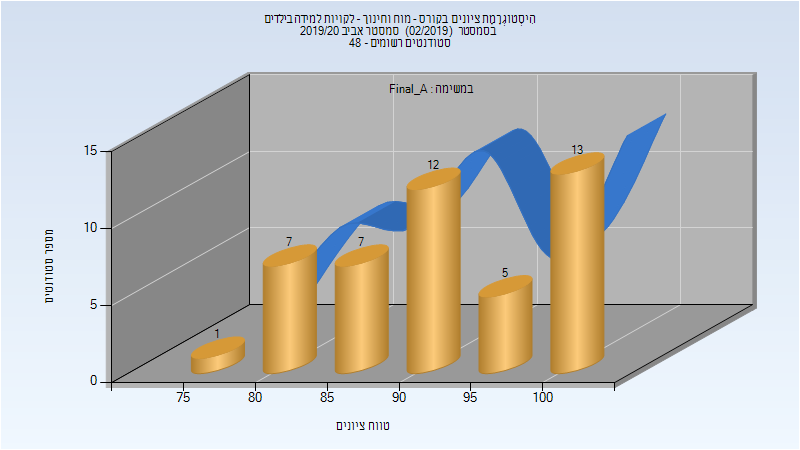
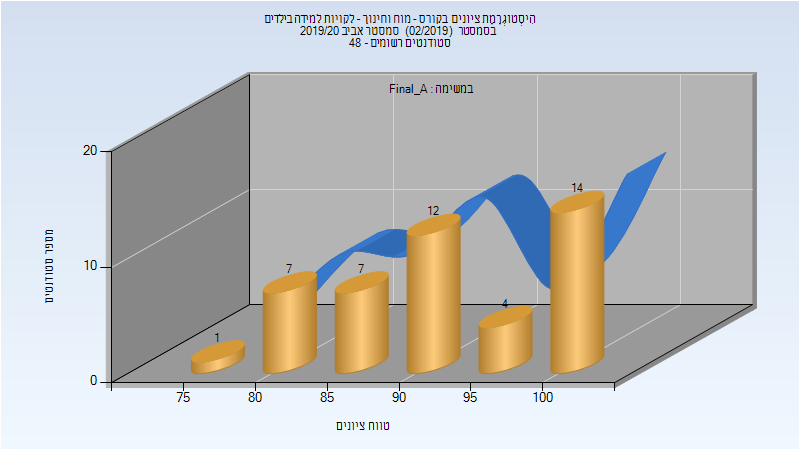
Deploy michael-maltsev/technion-histograms to github.com/michael-maltsev/technion-histograms.git:gh-pages

diff --git a/048989/index.html b/048989/index.html
@@ -5,7 +5,7 @@
     <link rel="shortcut icon" href="https://michael-maltsev.github.io/technion-histograms/favicon.ico">
     <meta name="viewport" content="width=device-width, initial-scale=1">
     <meta name="google-site-verification" content="Nps3LEfDaHCQolJfA4KJfgEA1c4hv6R04bCUijxBwdY" />
-    <title>216003 - ליקויי למידה והתנהגות בילדים | technion-histograms</title>
+    <title>048989 | technion-histograms</title>
     <style>
       /* stolen from thebestmotherfucking.website */
       body{font-family:Open Sans,Arial;color:#454545;font-size:16px;margin:2em auto;max-width:800px;padding:1em;line-height:1.4;text-align:justify}html.contrast body{color:#050505}html.contrast blockquote{color:#11151a}html.contrast blockquote:before{color:#262626}html.contrast a{color:#0051c9}html.contrast a:visited{color:#7d013e}html.contrast span.wr{color:#800}html.contrast span.mfw{color:#4d0000}@media screen and (prefers-color-scheme:light){html.inverted{background-color:#000}html.inverted body{color:#d9d9d9}html.inverted div#contrast,html.inverted div#invmode{color:#fff;background-color:#000}html.inverted blockquote{color:#d3c9be}html.inverted blockquote:before{color:#b8b8b8}html.inverted a{color:#00a2e7}html.inverted a:visited{color:#ca1a70}html.inverted span.wr{color:#d24637}html.inverted span.mfw{color:#b00000}html.inverted.contrast{background-color:#000}html.inverted.contrast body{color:#fff}html.inverted.contrast div#contrast,html.inverted.contrast div#invmode{color:#fff;background-color:#000}html.inverted.contrast blockquote{color:#f8f6f5}html.inverted.contrast blockquote:before{color:#e5e5e5}html.inverted.contrast a{color:#44c7ff}html.inverted.contrast a:visited{color:#e9579e}html.inverted.contrast span.wr{color:#db695d}html.inverted.contrast span.mfw{color:#ff0d0d}}@media (prefers-color-scheme:dark){html:not(.inverted){background-color:#000}html:not(.inverted) body{color:#d9d9d9}html:not(.inverted) div#contrast,html:not(.inverted) div#invmode{color:#fff;background-color:#000}html:not(.inverted) blockquote{color:#d3c9be}html:not(.inverted) blockquote:before{color:#b8b8b8}html:not(.inverted) a{color:#00a2e7}html:not(.inverted) a:visited{color:#ca1a70}html:not(.inverted) span.wr{color:#d24637}html:not(.inverted) span.mfw{color:#b00000}html:not(.inverted).contrast{background-color:#000}html:not(.inverted).contrast body{color:#fff}html:not(.inverted).contrast div#contrast,html:not(.inverted).contrast div#invmode{color:#fff;background-color:#000}html:not(.inverted).contrast blockquote{color:#f8f6f5}html:not(.inverted).contrast blockquote:before{color:#e5e5e5}html:not(.inverted).contrast a{color:#44c7ff}html:not(.inverted).contrast a:visited{color:#e9579e}html:not(.inverted).contrast span.wr{color:#db695d}html:not(.inverted).contrast span.mfw{color:#ff0d0d}html.inverted html{background-color:#fefefe}}a{color:#07a}a:visited{color:#941352}.noselect{-webkit-touch-callout:none;-webkit-user-select:none;-khtml-user-select:none;-moz-user-select:none;-ms-user-select:none;user-select:none}span.citneed{vertical-align:top;font-size:.7em;padding-left:.3em}small{font-size:.4em}p.st{margin-top:-1em}div.fancyPositioning div.picture-left{float:left;width:40%;overflow:hidden;margin-right:1em}div.fancyPositioning div.picture-left img{width:100%}div.fancyPositioning div.picture-left figure{margin:10px}div.fancyPositioning div.picture-left figure figcaption{font-size:.7em}div.fancyPositioning div.tleft{float:left;width:55%}div.fancyPositioning div.tleft p:first-child{margin-top:0}div.fancyPositioning:after{display:block;content:"";clear:both}ul li img{height:1em}blockquote{color:#456;margin-left:0;margin-top:2em;margin-bottom:2em}blockquote span{float:left;margin-left:1rem;padding-top:1rem}blockquote author{display:block;clear:both;font-size:.6em;margin-left:2.4rem;font-style:oblique}blockquote author:before{content:"- ";margin-right:1em}blockquote:before{font-family:Times New Roman,Times,Arial;color:#666;content:open-quote;font-size:2.2em;font-weight:600;float:left;margin-top:0;margin-right:.2rem;width:1.2rem}blockquote:after{content:"";display:block;clear:both}@media screen and (max-width:500px){body{text-align:left}div.fancyPositioning div.picture-left,div.fancyPositioning div.tleft{float:none;width:inherit}blockquote span{width:80%}blockquote author{padding-top:1em;width:80%;margin-left:15%}blockquote author:before{content:"";margin-right:inherit}}span.visited{color:#941352}span.visited-maroon{color:#85144b}span.wr{color:#c0392b;font-weight:600;text-decoration:underline}div#contrast{color:#000;top:10px}div#contrast,div#invmode{cursor:pointer;position:fixed;right:10px;font-size:.8em;text-decoration:underline;-webkit-touch-callout:none;-webkit-user-select:none;-khtml-user-select:none;-moz-user-select:none;-ms-user-select:none;user-select:none}div#invmode{color:#fff;background-color:#000;top:34px;padding:2px 5px}@media screen and (max-width:1080px){div#contrast,div#invmode{position:absolute}}span.sb{color:#00e}span.sb,span.sv{cursor:not-allowed}span.sv{color:#551a8b}span.foufoufou{color:#444;font-weight:700}span.foufoufou:before{content:"";display:inline-block;width:1em;height:1em;margin-left:.2em;margin-right:.2em;background-color:#444}span.foufivfoufivfoufiv{color:#454545;font-weight:700}span.foufivfoufivfoufiv:before{content:"";display:inline-block;width:1em;height:1em;margin-left:.2em;margin-right:.2em;background-color:#454545}span.mfw{color:#730000}a.kopimi,a.kopimi img.kopimi{display:block;margin-left:auto;margin-right:auto}a.kopimi img.kopimi{height:2em}p.fakepre{font-family:monospace;font-size:.9em}
@@ -20,74 +20,7 @@
     </style>
   </head>
   <body>
-    <h1>216003 - ליקויי למידה והתנהגות בילדים</h1>
-<h2>חורף 2018-2019</h2>
-<table>
-<thead>
-<tr>
-<th>איש סגל</th>
-<th>תפקיד</th>
-</tr>
-</thead>
-<tbody>
-<tr>
-<td>הורוביץ-קראו ציפי</td>
-<td>מרצה - אחראי מקצוע</td>
-</tr>
-</tbody>
-</table>
-<h3>סופי מועד א'</h3>
-<p><img src="201801/Final_A.png" alt="201801 Final_A" /></p>
-<table>
-<thead>
-<tr>
-<th>סטודנטים</th>
-<th>עברו/נכשלו</th>
-<th>אחוז עוברים</th>
-<th>ציון מינימלי</th>
-<th>ציון מקסימלי</th>
-<th>ממוצע</th>
-<th>חציון</th>
-</tr>
-</thead>
-<tbody>
-<tr>
-<td>20</td>
-<td>20/0</td>
-<td>100</td>
-<td>86</td>
-<td>100</td>
-<td>93.5</td>
-<td>91.5</td>
-</tr>
-</tbody>
-</table>
-<h3>סופי</h3>
-<p><img src="201801/Finals.png" alt="201801 Finals" /></p>
-<table>
-<thead>
-<tr>
-<th>סטודנטים</th>
-<th>עברו/נכשלו</th>
-<th>אחוז עוברים</th>
-<th>ציון מינימלי</th>
-<th>ציון מקסימלי</th>
-<th>ממוצע</th>
-<th>חציון</th>
-</tr>
-</thead>
-<tbody>
-<tr>
-<td>18</td>
-<td>18/0</td>
-<td>100</td>
-<td>86</td>
-<td>100</td>
-<td>93.444</td>
-<td>91.5</td>
-</tr>
-</tbody>
-</table>
+    <h1>048989</h1>
 <h2>אביב 2020</h2>
 <table>
 <thead>
@@ -98,34 +31,8 @@
 </thead>
 <tbody>
 <tr>
-<td>הורוביץ-קראו ציפי</td>
+<td>לברון יואש</td>
 <td>מרצה - אחראי מקצוע</td>
-</tr>
-</tbody>
-</table>
-<h3>סופי מועד א'</h3>
-<p><img src="201902/Final_A.png" alt="201902 Final_A" /></p>
-<table>
-<thead>
-<tr>
-<th>סטודנטים</th>
-<th>עברו/נכשלו</th>
-<th>אחוז עוברים</th>
-<th>ציון מינימלי</th>
-<th>ציון מקסימלי</th>
-<th>ממוצע</th>
-<th>חציון</th>
-</tr>
-</thead>
-<tbody>
-<tr>
-<td>45</td>
-<td>45/0</td>
-<td>100</td>
-<td>79</td>
-<td>100</td>
-<td>92.378</td>
-<td>92</td>
 </tr>
 </tbody>
 </table>
@@ -145,13 +52,13 @@
 </thead>
 <tbody>
 <tr>
-<td>45</td>
-<td>45/0</td>
+<td>15</td>
+<td>15/0</td>
 <td>100</td>
-<td>79</td>
+<td>90</td>
 <td>100</td>
-<td>92.267</td>
-<td>92</td>
+<td>97.4</td>
+<td>100</td>
 </tr>
 </tbody>
 </table>

diff --git a/046237/index.html b/046237/index.html
@@ -601,6 +601,32 @@
 </tr>
 </tbody>
 </table>
+<h3>סופי מועד ב'</h3>
+<p><img src="201902/Final_B.png" alt="201902 Final_B" /></p>
+<table>
+<thead>
+<tr>
+<th>סטודנטים</th>
+<th>עברו/נכשלו</th>
+<th>אחוז עוברים</th>
+<th>ציון מינימלי</th>
+<th>ציון מקסימלי</th>
+<th>ממוצע</th>
+<th>חציון</th>
+</tr>
+</thead>
+<tbody>
+<tr>
+<td>23</td>
+<td>23/0</td>
+<td>100</td>
+<td>66</td>
+<td>90</td>
+<td>78.913</td>
+<td>79</td>
+</tr>
+</tbody>
+</table>
 <h3>סופי</h3>
 <p><img src="201902/Finals.png" alt="201902 Finals" /></p>
 <table>

diff --git a/index.html b/index.html
@@ -410,6 +410,7 @@
 <a href="048921/">048921</a><br />
 <a href="048929/">048929</a><br />
 <a href="048986/">048986</a><br />
+<a href="048989/">048989</a><br />
 <a href="049011/">049011</a><br />
 <a href="049018/">049018</a><br />
 <a href="049022/">049022</a><br />

diff --git a/046880/index.html b/046880/index.html
@@ -179,13 +179,13 @@
 </thead>
 <tbody>
 <tr>
-<td>12</td>
-<td>11/1</td>
-<td>92</td>
-<td>50</td>
+<td>14</td>
+<td>14/0</td>
+<td>100</td>
+<td>71</td>
 <td>96</td>
-<td>84.625</td>
-<td>89.5</td>
+<td>85.6</td>
+<td>86.5</td>
 </tr>
 </tbody>
 </table>

diff --git a/046237/README.md b/046237/README.md
@@ -184,6 +184,14 @@
 | ---- | ---- | ---- | ---- | ---- | ---- | ---- |
 | 52 | 52/0 | 100 | 57 | 92 | 76.596 | 75 |
 
+### סופי מועד ב'
+
+![201902 Final_B](201902/Final_B.png)
+
+| סטודנטים | עברו/נכשלו | אחוז עוברים | ציון מינימלי | ציון מקסימלי | ממוצע | חציון |
+| ---- | ---- | ---- | ---- | ---- | ---- | ---- |
+| 23 | 23/0 | 100 | 66 | 90 | 78.913 | 79 |
+
 ### סופי
 
 ![201902 Finals](201902/Finals.png)

diff --git a/048989/README.md b/048989/README.md
@@ -1,0 +1,16 @@
+# 048989
+
+## אביב 2020
+
+| איש סגל | תפקיד |
+| ---- | ---- |
+| לברון יואש | מרצה - אחראי מקצוע |
+
+### סופי
+
+![201902 Finals](201902/Finals.png)
+
+| סטודנטים | עברו/נכשלו | אחוז עוברים | ציון מינימלי | ציון מקסימלי | ממוצע | חציון |
+| ---- | ---- | ---- | ---- | ---- | ---- | ---- |
+| 15 | 15/0 | 100 | 90 | 100 | 97.4 | 100 |
+

diff --git a/216003/README.md b/216003/README.md
@@ -34,7 +34,7 @@
 
 | סטודנטים | עברו/נכשלו | אחוז עוברים | ציון מינימלי | ציון מקסימלי | ממוצע | חציון |
 | ---- | ---- | ---- | ---- | ---- | ---- | ---- |
-| 45 | 45/0 | 100 | 79 | 100 | 92.267 | 92 |
+| 45 | 45/0 | 100 | 79 | 100 | 92.378 | 92 |
 
 ### סופי
 

diff --git a/046880/README.md b/046880/README.md
@@ -52,5 +52,5 @@
 
 | סטודנטים | עברו/נכשלו | אחוז עוברים | ציון מינימלי | ציון מקסימלי | ממוצע | חציון |
 | ---- | ---- | ---- | ---- | ---- | ---- | ---- |
-| 12 | 11/1 | 92 | 50 | 96 | 84.625 | 89.5 |
+| 14 | 14/0 | 100 | 71 | 96 | 85.6 | 86.5 |
 

diff --git a/README.md b/README.md
@@ -389,6 +389,7 @@
 [048921](048921/)  
 [048929](048929/)  
 [048986](048986/)  
+[048989](048989/)  
 [049011](049011/)  
 [049018](049018/)  
 [049022](049022/)  
